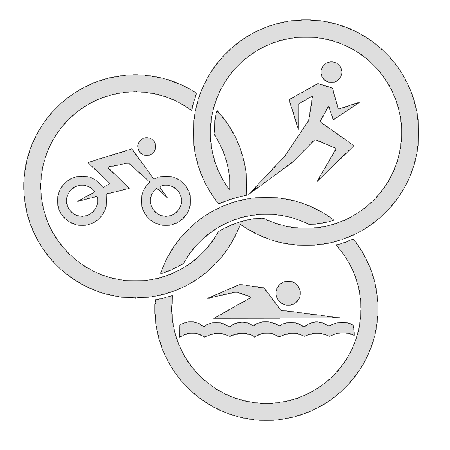
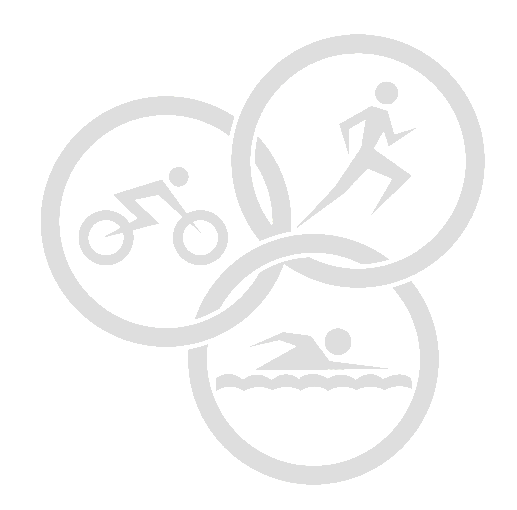
Touched up tri-track-symbol and ensured workout and profile forms start on the first section.

diff --git a/app/src/components/customSnackBar.js b/app/src/components/customSnackBar.js
@@ -20,13 +20,13 @@ const variantIcon = {
 
 const styles1 = theme => ({
   success: {
-    backgroundColor: green[600]
+    backgroundColor: theme.palette.error.light
   },
   error: {
-    backgroundColor: theme.palette.error.dark
+    backgroundColor: theme.palette.error.light
   },
   info: {
-    backgroundColor: theme.palette.primary.dark
+    backgroundColor: theme.palette.error.light
   },
   warning: {
     backgroundColor: amber[700]
@@ -40,7 +40,8 @@ const styles1 = theme => ({
   },
   message: {
     display: 'flex',
-    alignItems: 'center'
+    alignItems: 'center',
+    justifyContent: 'center'
   }
 })
 
@@ -53,10 +54,10 @@ function MySnackbarContent(props) {
       className={classNames(classes[variant], className)}
       aria-describedby="client-snackbar"
       message={
-        <span id="client-snackbar" className={classes.message}>
+        <center id="client-snackbar" className={classes.message}>
           <Icon className={classNames(classes.icon, classes.iconVariant)} />
           {message}
-        </span>
+        </center>
       }
       action={[
         <IconButton

diff --git a/app/src/components/filterBar.js b/app/src/components/filterBar.js
@@ -18,6 +18,7 @@ import {
 import { propEq } from 'ramda'
 
 import { FILTER_KEYS_UPDATED } from '../constants'
+import MotivationWellnessIcon from './motivationWellnessIcon'
 
 const styles = theme => ({
   root: {
@@ -173,7 +174,7 @@ const WellnessButtons = props => {
               : classes.unselected
           }
         >
-          <img src="/static/sick.png" alt="Sick Icon" />
+          <MotivationWellnessIcon type="wellness" value={1} />
         </IconButton>
         <IconButton
           onClick={
@@ -187,7 +188,7 @@ const WellnessButtons = props => {
               : classes.unselected
           }
         >
-          <img src="/static/fever.png" alt="Fever Icon" />
+          <MotivationWellnessIcon type="wellness" value={2} />
         </IconButton>
         <IconButton
           onClick={
@@ -201,7 +202,7 @@ const WellnessButtons = props => {
               : classes.unselected
           }
         >
-          <img src="/static/well.png" alt="Well Icon" />
+          <MotivationWellnessIcon type="wellness" value={3} />
         </IconButton>
       </div>
     </div>

diff --git a/app/src/components/motivationWellnessIcon.js b/app/src/components/motivationWellnessIcon.js
@@ -15,11 +15,11 @@ export default props => {
   }
   if (equals(type, 'wellness')) {
     return equals(value, 1) ? (
-      <img src="/static/sick.png" alt="Sick Icon" />
+      <img src="/static/sick.svg" alt="Sick Icon" style={{ height: 22 }} />
     ) : equals(value, 2) ? (
-      <img src="/static/fever.png" alt="Fever Icon" />
+      <img src="/static/fever.svg" alt="Fever Icon" style={{ height: 22 }} />
     ) : (
-      <img src="/static/well.png" alt="Well Icon" />
+      <img src="/static/well.svg" alt="Well Icon" style={{ height: 32 }} />
     )
   }
 }

diff --git a/app/src/pages/workouts/edit.js b/app/src/pages/workouts/edit.js
@@ -28,9 +28,16 @@ const styles = theme => ({
 
 class WorkoutEdit extends React.Component {
   componentDidMount() {
-    const { setWorkout, load, calendarReset } = this.props
+    const {
+      setWorkout,
+      load,
+      calendarReset,
+      isFirstForm,
+      toggleForm
+    } = this.props
     calendarReset()
     setWorkout(load)
+    if (!isFirstForm) toggleForm()
   }
 
   render() {

diff --git a/app/src/pages/profile/edit.js b/app/src/pages/profile/edit.js
@@ -52,8 +52,9 @@ const styles = theme => ({
 
 class ProfileEdit extends React.Component {
   componentDidMount() {
-    const { load, loadProfile } = this.props
+    const { load, loadProfile, isDetailsForm, toggleForm } = this.props
     load(loadProfile)
+    if (isDetailsForm) toggleForm()
   }
 
   render() {

diff --git a/app/src/index.js b/app/src/index.js
@@ -17,6 +17,7 @@ const theme = createMuiTheme({
     type: 'dark',
     primary: { main: '#802BB1' },
     secondary: { main: '#D1D7E0' },
+    error: { main: '#CD77FF' },
     background: { default: '#2D283E', paper: '#2D283E' }
     // swim: { main: '#3D52D5' },
     // run: { main: '#4BAA4C' },

diff --git a/app/src/pages/workouts/new.js b/app/src/pages/workouts/new.js
@@ -27,8 +27,9 @@ const styles = theme => ({
 
 class WorkoutNew extends React.Component {
   componentDidMount() {
-    const { errorClear } = this.props
+    const { errorClear, formClear } = this.props
     errorClear()
+    formClear()
   }
 
   render() {
